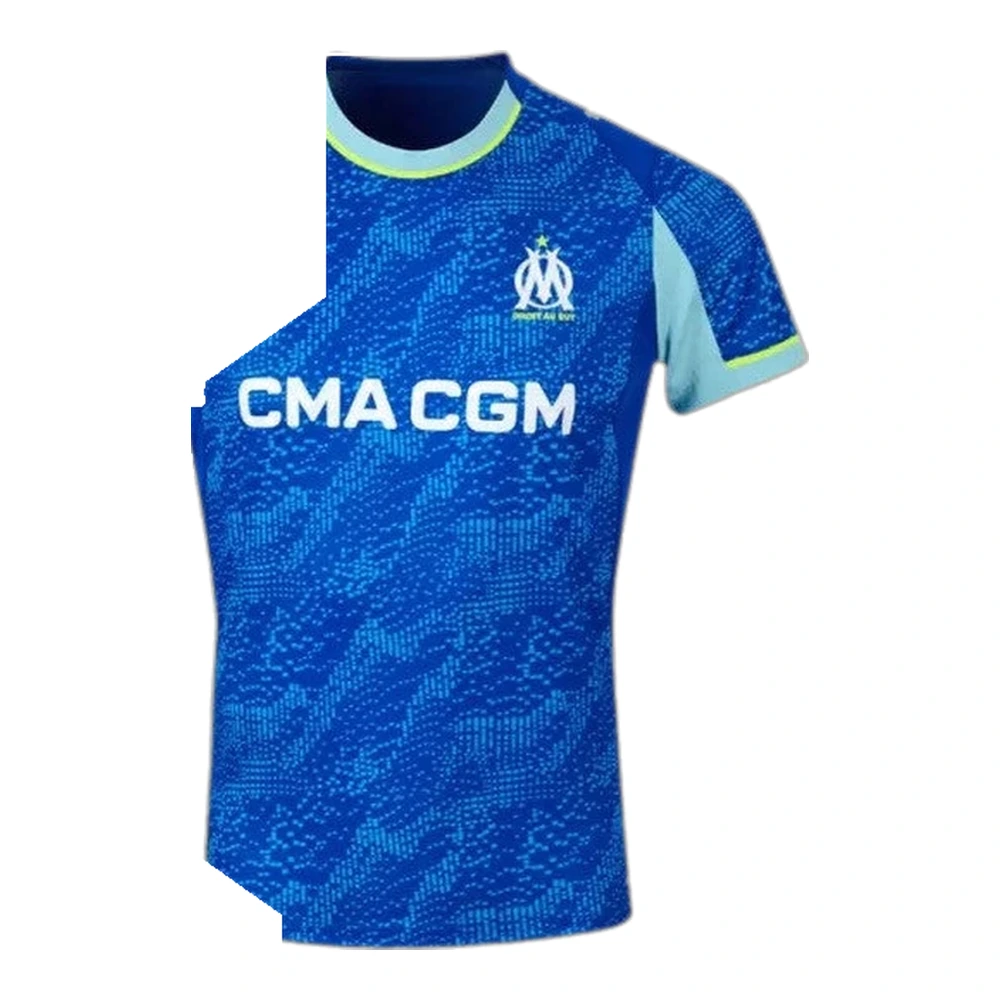
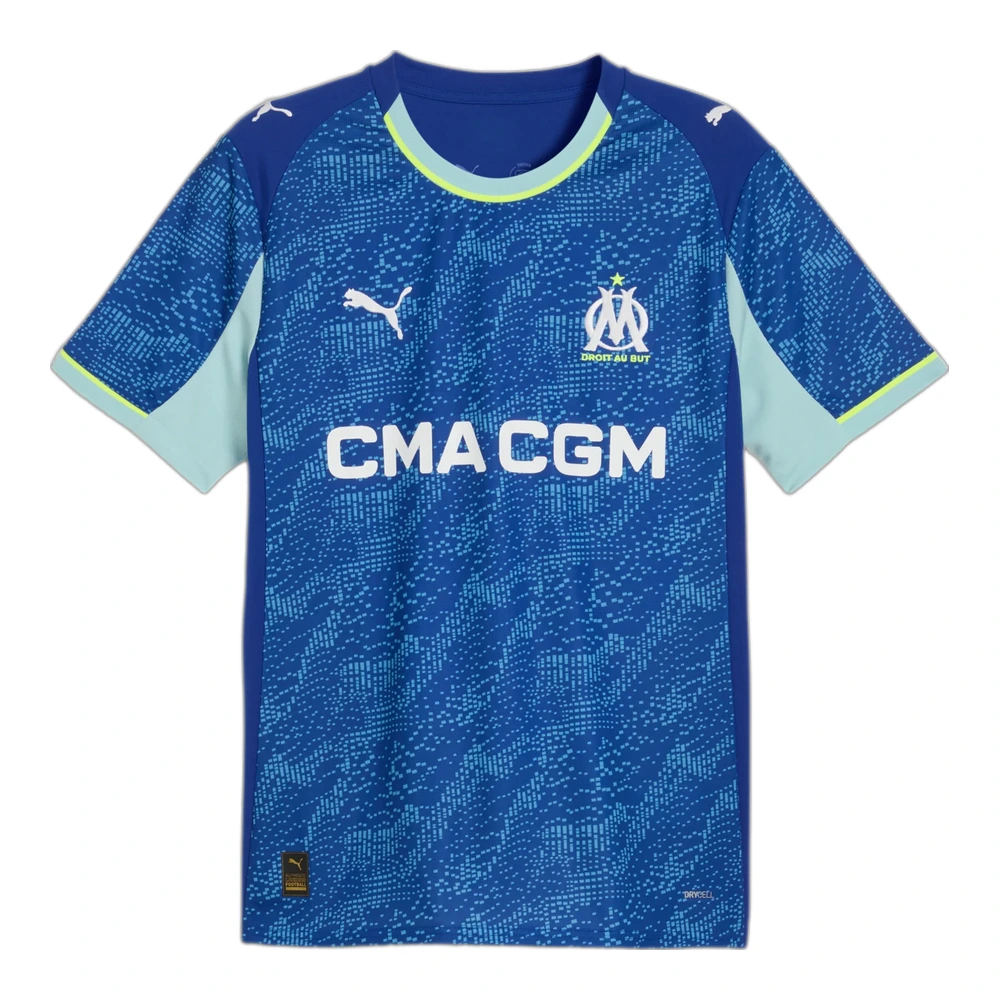
Ajoute le verso OM Extérieur 2026-27 et remplace les photos du Third 2025-26

diff --git a/index.html b/index.html
@@ -2023,7 +2023,7 @@ const products = [
   { id:808, club:'RD Congo', name:'Maillot Domicile', season:'2026-27', league:'International', type:'standard', emoji:'🇨🇩', mainColor:'#63A5D7', accentColor:'#ADCBE4', flocageColor:'#111111', frontImage:'images/congo-dom-2627-1.webp', carouselImages:['images/congo-dom-2627-1.webp','images/congo-dom-2627-2.webp'] },
   { id:809, club:'RD Congo', name:'Maillot Extérieur', season:'2026-27', league:'International', type:'standard', emoji:'🇨🇩', mainColor:'#F5F5F5', accentColor:'#5FA8DC', flocageColor:'#111111', frontImage:'images/congo-ext-2627-1.webp', carouselImages:['images/congo-ext-2627-1.webp','images/congo-ext-2627-2.webp'] },
   { id:810, club:'FC Nantes', name:'Maillot Domicile', season:'2026-27', league:'2ème Division', subLeague:'France — Ligue 2', type:'standard', emoji:'👕', mainColor:'#F5DE0C', accentColor:'#009A44', flocageColor:'#009A44', frontImage:'images/nantes-dom-2627-1.webp', carouselImages:['images/nantes-dom-2627-1.webp','images/nantes-dom-2627-2.webp'] },
-  { id:811, club:'Olympique de Marseille', name:'Maillot Extérieur', season:'2026-27', league:'Ligue 1', type:'standard', emoji:'👕', mainColor:'#0F1E3D', accentColor:'#5FC8D8', flocageColor:'#FFFFFF', frontImage:'images/om-ext-2627-1.webp', carouselImages:['images/om-ext-2627-1.webp'] },
+  { id:811, club:'Olympique de Marseille', name:'Maillot Extérieur', season:'2026-27', league:'Ligue 1', type:'standard', emoji:'👕', mainColor:'#0F1E3D', accentColor:'#5FC8D8', flocageColor:'#FFFFFF', frontImage:'images/om-ext-2627-1.webp', carouselImages:['images/om-ext-2627-1.webp','images/om-ext-2627-2.webp'] },
   { id:812, club:'Ajax', name:'Maillot Third', season:'2026-27', league:'Eredivisie', type:'standard', emoji:'👕', mainColor:'#D6E4EF', accentColor:'#3B4C7A', flocageColor:'#3B4C7A', frontImage:'images/ajax-3rd-2627-1.webp', carouselImages:['images/ajax-3rd-2627-1.webp','images/ajax-3rd-2627-2.webp'] },
   { id:813, club:'Paris Saint-Germain', name:'Maillot Domicile', season:'2026-27', league:'Ligue 1', type:'standard', emoji:'👕', mainColor:'#101A3E', accentColor:'#DA291C', flocageColor:'#FFFFFF', frontImage:'images/psg-dom-2627-1.webp', carouselImages:['images/psg-dom-2627-1.webp','images/psg-dom-2627-2.webp'] },
   { id:814, club:'Danemark', name:'Maillot Extérieur', season:'2026-27', league:'International', type:'standard', emoji:'🇩🇰', mainColor:'#FFFFFF', accentColor:'#C8102E', flocageColor:'#C8102E', frontImage:'images/danemark-ext-2627-1.webp', carouselImages:['images/danemark-ext-2627-1.webp','images/danemark-ext-2627-2.webp'] },
